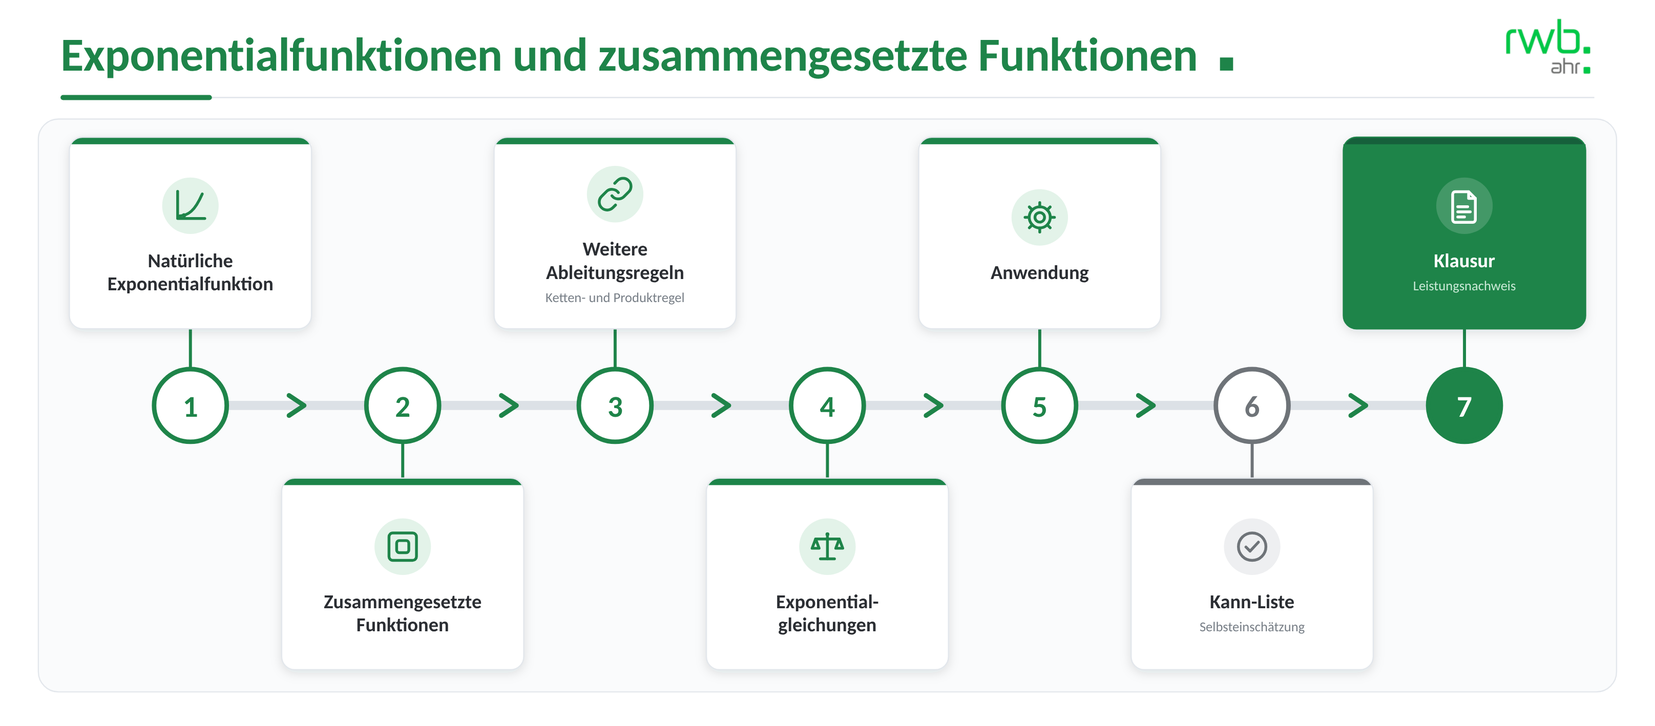
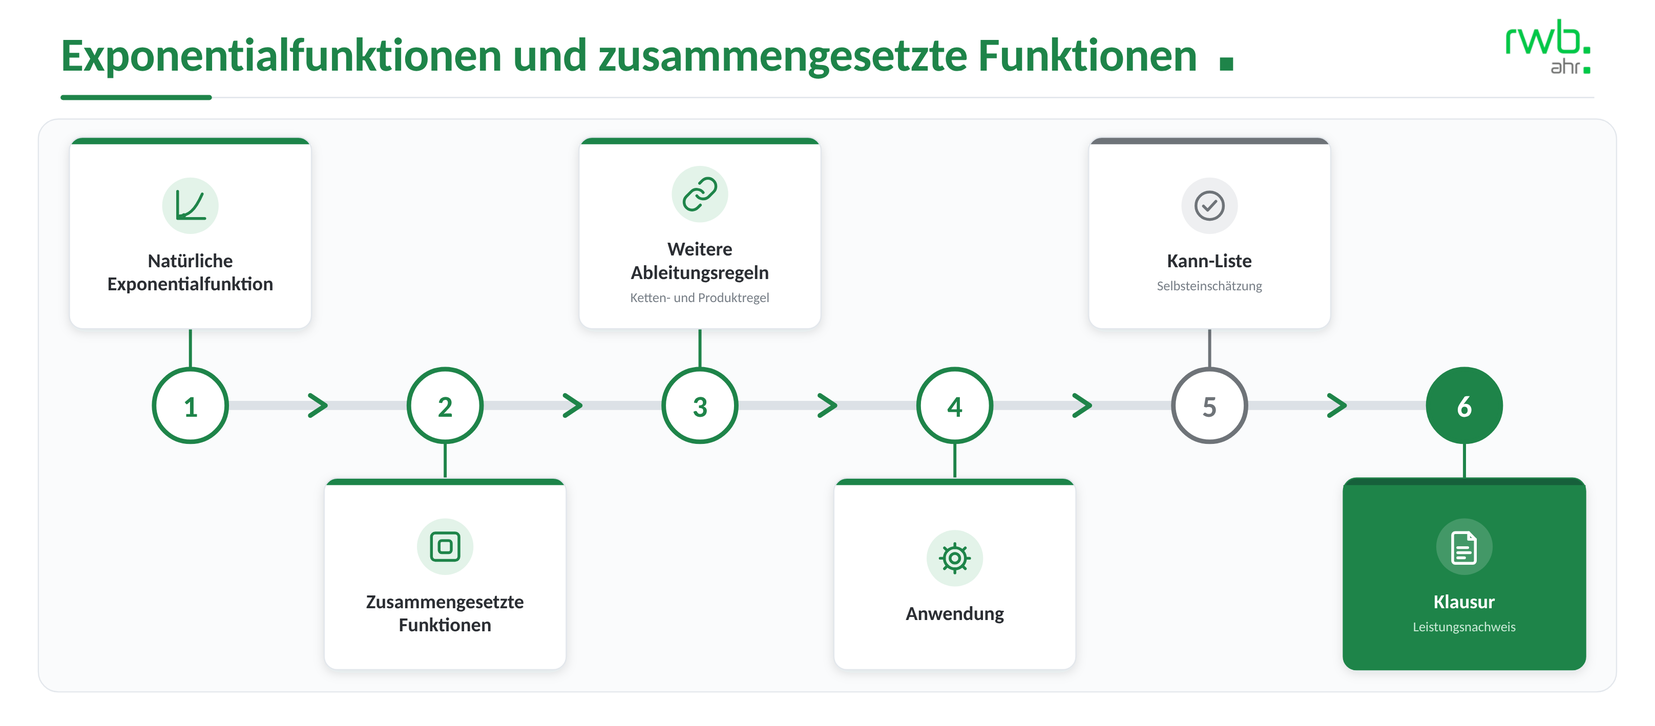
Lernlandkarten Exponentialfunktionen: Station Exponentialgleichungen entfernt
Claude-Session: https://claude.ai/code/session_01N5tt2ioRq957g9BtRY8iP4

diff --git a/Exponentialfunktionen und zusammengesetzte Funktionen/Lernlandkarte_Exponentialfunktionen_und_zusammengesetzte_Funktionen_HAW.html b/Exponentialfunktionen und zusammengesetzte Funktionen/Lernlandkarte_Exponentialfunktionen_und_zusammengesetzte_Funktionen_HAW.html
@@ -33,7 +33,7 @@ svg{display:block; width:100%; height:auto;}
 
      Variante B (Moodle-Textseite mit diesem HTML):
        Jede Station liegt als eigene SVG-Gruppe vor:
-       <g id="station-1"> … <g id="station-7">
+       <g id="station-1"> … <g id="station-6">
        Zum Verlinken die jeweilige Gruppe umschliessen, z. B.
        <a href="URL" target="_top"><g id="station-1"> … </g></a>
      ====================================================================== -->
@@ -49,33 +49,29 @@ svg{display:block; width:100%; height:auto;}
 <rect x="60" y="96" width="1520" height="1.4" fill="#E3E7EC"/>
 <rect x="60" y="94.2" width="150" height="5" rx="2.5" fill="#1E8449"/>
 <rect x="188.7" y="397.5" width="1262.6" height="9" rx="4.5" fill="#DCE1E6"/>
-<path d="M286.4 392 L301.4 402 L286.4 412" fill="none" stroke="#1E8449" stroke-width="4.6" stroke-linecap="round" stroke-linejoin="round"/>
-<path d="M496.8 392 L511.8 402 L496.8 412" fill="none" stroke="#1E8449" stroke-width="4.6" stroke-linecap="round" stroke-linejoin="round"/>
-<path d="M707.3 392 L722.3 402 L707.3 412" fill="none" stroke="#1E8449" stroke-width="4.6" stroke-linecap="round" stroke-linejoin="round"/>
-<path d="M917.7 392 L932.7 402 L917.7 412" fill="none" stroke="#1E8449" stroke-width="4.6" stroke-linecap="round" stroke-linejoin="round"/>
-<path d="M1128.1 392 L1143.1 402 L1128.1 412" fill="none" stroke="#1E8449" stroke-width="4.6" stroke-linecap="round" stroke-linejoin="round"/>
-<path d="M1338.6 392 L1353.6 402 L1338.6 412" fill="none" stroke="#1E8449" stroke-width="4.6" stroke-linecap="round" stroke-linejoin="round"/>
+<path d="M307.5 392 L322.5 402 L307.5 412" fill="none" stroke="#1E8449" stroke-width="4.6" stroke-linecap="round" stroke-linejoin="round"/>
+<path d="M560.0 392 L575.0 402 L560.0 412" fill="none" stroke="#1E8449" stroke-width="4.6" stroke-linecap="round" stroke-linejoin="round"/>
+<path d="M812.5 392 L827.5 402 L812.5 412" fill="none" stroke="#1E8449" stroke-width="4.6" stroke-linecap="round" stroke-linejoin="round"/>
+<path d="M1065.0 392 L1080.0 402 L1065.0 412" fill="none" stroke="#1E8449" stroke-width="4.6" stroke-linecap="round" stroke-linejoin="round"/>
+<path d="M1317.5 392 L1332.5 402 L1317.5 412" fill="none" stroke="#1E8449" stroke-width="4.6" stroke-linecap="round" stroke-linejoin="round"/>
 <g id="station-1"><rect x="187.2" y="326" width="3" height="40" fill="#1E8449"/><g filter="url(#soft)"><rect x="68.7" y="136" width="240" height="190" rx="13" fill="#1E8449"/></g><path d="M68.7 143 h240 v170 a13 13 0 0 1 -13 13 h-214 a13 13 0 0 1 -13 -13 z" fill="#FFFFFF"/><rect x="68.7" y="136" width="240" height="190" rx="13" fill="none" stroke="#E3E7EC" stroke-width="1.3"/><circle cx="188.7" cy="204.0" r="28" fill="#E3F3E9"/><g transform="translate(169.7,185.0) scale(1.5833)" fill="none" stroke="#1E8449" stroke-width="1.75" stroke-linecap="round" stroke-linejoin="round"><path d="M4 3V20H21"/><path d="M5.2 18.4C10.5 18.1 14.6 15.6 19.4 4.6"/><circle cx="8" cy="18" r="1.3" fill="#1E8449" stroke="none"/></g><text x="188.7" y="265.0" text-anchor="middle" font-family="Carlito, Calibri, 'Segoe UI', 'Helvetica Neue', Arial, sans-serif" font-size="19.5" font-weight="700" fill="#2B2E33">Natürliche</text><text x="188.7" y="288.0" text-anchor="middle" font-family="Carlito, Calibri, 'Segoe UI', 'Helvetica Neue', Arial, sans-serif" font-size="19.5" font-weight="700" fill="#2B2E33">Exponentialfunktion</text></g>
-<g id="station-2"><rect x="397.6" y="438" width="3" height="36" fill="#1E8449"/><g filter="url(#soft)"><rect x="279.1" y="474" width="240" height="190" rx="13" fill="#1E8449"/></g><path d="M279.1 481 h240 v170 a13 13 0 0 1 -13 13 h-214 a13 13 0 0 1 -13 -13 z" fill="#FFFFFF"/><rect x="279.1" y="474" width="240" height="190" rx="13" fill="none" stroke="#E3E7EC" stroke-width="1.3"/><circle cx="399.1" cy="542.0" r="28" fill="#E3F3E9"/><g transform="translate(380.1,523.0) scale(1.5833)" fill="none" stroke="#1E8449" stroke-width="1.75" stroke-linecap="round" stroke-linejoin="round"><rect x="3.4" y="3.4" width="17.2" height="17.2" rx="2.4"/><rect x="8.2" y="8.2" width="7.6" height="7.6" rx="1.6"/></g><text x="399.1" y="603.0" text-anchor="middle" font-family="Carlito, Calibri, 'Segoe UI', 'Helvetica Neue', Arial, sans-serif" font-size="19.5" font-weight="700" fill="#2B2E33">Zusammengesetzte</text><text x="399.1" y="626.0" text-anchor="middle" font-family="Carlito, Calibri, 'Segoe UI', 'Helvetica Neue', Arial, sans-serif" font-size="19.5" font-weight="700" fill="#2B2E33">Funktionen</text></g>
-<g id="station-3"><rect x="608.1" y="326" width="3" height="40" fill="#1E8449"/><g filter="url(#soft)"><rect x="489.6" y="136" width="240" height="190" rx="13" fill="#1E8449"/></g><path d="M489.6 143 h240 v170 a13 13 0 0 1 -13 13 h-214 a13 13 0 0 1 -13 -13 z" fill="#FFFFFF"/><rect x="489.6" y="136" width="240" height="190" rx="13" fill="none" stroke="#E3E7EC" stroke-width="1.3"/><circle cx="609.6" cy="192.5" r="28" fill="#E3F3E9"/><g transform="translate(590.6,173.5) scale(1.5833)" fill="none" stroke="#1E8449" stroke-width="1.75" stroke-linecap="round" stroke-linejoin="round"><path d="M10 13a5 5 0 0 0 7.54.54l3-3a5 5 0 0 0-7.07-7.07l-1.72 1.71"/><path d="M14 11a5 5 0 0 0-7.54-.54l-3 3a5 5 0 0 0 7.07 7.07l1.71-1.71"/></g><text x="609.6" y="253.5" text-anchor="middle" font-family="Carlito, Calibri, 'Segoe UI', 'Helvetica Neue', Arial, sans-serif" font-size="19.5" font-weight="700" fill="#2B2E33">Weitere</text><text x="609.6" y="276.5" text-anchor="middle" font-family="Carlito, Calibri, 'Segoe UI', 'Helvetica Neue', Arial, sans-serif" font-size="19.5" font-weight="700" fill="#2B2E33">Ableitungsregeln</text><text x="609.6" y="299.5" text-anchor="middle" font-family="Carlito, Calibri, 'Segoe UI', 'Helvetica Neue', Arial, sans-serif" font-size="13.5" fill="#787F87">Ketten- und Produktregel</text></g>
-<g id="station-4"><rect x="818.5" y="438" width="3" height="36" fill="#1E8449"/><g filter="url(#soft)"><rect x="700.0" y="474" width="240" height="190" rx="13" fill="#1E8449"/></g><path d="M700.0 481 h240 v170 a13 13 0 0 1 -13 13 h-214 a13 13 0 0 1 -13 -13 z" fill="#FFFFFF"/><rect x="700.0" y="474" width="240" height="190" rx="13" fill="none" stroke="#E3E7EC" stroke-width="1.3"/><circle cx="820.0" cy="542.0" r="28" fill="#E3F3E9"/><g transform="translate(801.0,523.0) scale(1.5833)" fill="none" stroke="#1E8449" stroke-width="1.75" stroke-linecap="round" stroke-linejoin="round"><path d="M12 4.2V19.6"/><path d="M7.6 19.6H16.4"/><path d="M4.6 7.2H19.4"/><circle cx="12" cy="4.2" r="1.2" fill="#1E8449" stroke="none"/><path d="M4.6 7.2L2.4 13H6.8Z"/><path d="M19.4 7.2L17.2 13H21.6Z"/></g><text x="820.0" y="603.0" text-anchor="middle" font-family="Carlito, Calibri, 'Segoe UI', 'Helvetica Neue', Arial, sans-serif" font-size="19.5" font-weight="700" fill="#2B2E33">Exponential-</text><text x="820.0" y="626.0" text-anchor="middle" font-family="Carlito, Calibri, 'Segoe UI', 'Helvetica Neue', Arial, sans-serif" font-size="19.5" font-weight="700" fill="#2B2E33">gleichungen</text></g>
-<g id="station-5"><rect x="1028.9" y="326" width="3" height="40" fill="#1E8449"/><g filter="url(#soft)"><rect x="910.4" y="136" width="240" height="190" rx="13" fill="#1E8449"/></g><path d="M910.4 143 h240 v170 a13 13 0 0 1 -13 13 h-214 a13 13 0 0 1 -13 -13 z" fill="#FFFFFF"/><rect x="910.4" y="136" width="240" height="190" rx="13" fill="none" stroke="#E3E7EC" stroke-width="1.3"/><circle cx="1030.4" cy="183.5" r="28" fill="#E3F3E9"/><g transform="translate(1011.4,164.5) scale(1.5833)" fill="none" stroke="#1E8449" stroke-width="1.75" stroke-linecap="round" stroke-linejoin="round"><path d="M4 3V20H21"/><path d="M5.8 18.6C9 18.6 10.2 7.2 13 7.2S17 16.4 20.6 17.4"/></g><text x="1030.4" y="244.5" text-anchor="middle" font-family="Carlito, Calibri, 'Segoe UI', 'Helvetica Neue', Arial, sans-serif" font-size="19.5" font-weight="700" fill="#2B2E33">Ökonomische</text><text x="1030.4" y="267.5" text-anchor="middle" font-family="Carlito, Calibri, 'Segoe UI', 'Helvetica Neue', Arial, sans-serif" font-size="19.5" font-weight="700" fill="#2B2E33">Anwendung VII</text><text x="1030.4" y="290.5" text-anchor="middle" font-family="Carlito, Calibri, 'Segoe UI', 'Helvetica Neue', Arial, sans-serif" font-size="13.5" fill="#787F87">Produktlebenszyklus</text><text x="1030.4" y="308.5" text-anchor="middle" font-family="Carlito, Calibri, 'Segoe UI', 'Helvetica Neue', Arial, sans-serif" font-size="13.5" fill="#787F87">(Absatz- und Umsatzfunktion)</text></g>
-<g id="station-6"><rect x="1239.4" y="438" width="3" height="36" fill="#6E7378"/><g filter="url(#soft)"><rect x="1120.9" y="474" width="240" height="190" rx="13" fill="#6E7378"/></g><path d="M1120.9 481 h240 v170 a13 13 0 0 1 -13 13 h-214 a13 13 0 0 1 -13 -13 z" fill="#FFFFFF"/><rect x="1120.9" y="474" width="240" height="190" rx="13" fill="none" stroke="#E3E7EC" stroke-width="1.3"/><circle cx="1240.9" cy="542.0" r="28" fill="#EEEFF1"/><g transform="translate(1221.9,523.0) scale(1.5833)" fill="none" stroke="#6E7378" stroke-width="1.75" stroke-linecap="round" stroke-linejoin="round"><circle cx="12" cy="12" r="8.6"/><path d="M8.1 12.2l2.6 2.6 5.2-5.6"/></g><text x="1240.9" y="603.0" text-anchor="middle" font-family="Carlito, Calibri, 'Segoe UI', 'Helvetica Neue', Arial, sans-serif" font-size="19.5" font-weight="700" fill="#2B2E33">Kann-Liste</text><text x="1240.9" y="626.0" text-anchor="middle" font-family="Carlito, Calibri, 'Segoe UI', 'Helvetica Neue', Arial, sans-serif" font-size="13.5" fill="#787F87">Selbsteinschätzung</text></g>
-<g id="station-7"><rect x="1449.8" y="326" width="3" height="40" fill="#1E8449"/><g filter="url(#soft)"><rect x="1331.3" y="136" width="240" height="190" rx="13" fill="#14603A"/></g><path d="M1331.3 143 h240 v170 a13 13 0 0 1 -13 13 h-214 a13 13 0 0 1 -13 -13 z" fill="#1E8449"/><rect x="1331.3" y="136" width="240" height="190" rx="13" fill="none" stroke="#1E8449" stroke-width="1.3"/><circle cx="1451.3" cy="204.0" r="28" fill="#FFFFFF" opacity="0.17"/><g transform="translate(1432.3,185.0) scale(1.5833)" fill="none" stroke="#FFFFFF" stroke-width="1.75" stroke-linecap="round" stroke-linejoin="round"><path d="M6.2 3.2h8.4l4.2 4.2v13.4a1.6 1.6 0 0 1-1.6 1.6H6.2a1.6 1.6 0 0 1-1.6-1.6V4.8a1.6 1.6 0 0 1 1.6-1.6z"/><path d="M14.6 3.2v4.2h4.2"/><path d="M7.8 12.6H14"/><path d="M7.8 15.8H15.6"/><path d="M7.8 19H12"/></g><text x="1451.3" y="265.0" text-anchor="middle" font-family="Carlito, Calibri, 'Segoe UI', 'Helvetica Neue', Arial, sans-serif" font-size="19.5" font-weight="700" fill="#FFFFFF">Klausur</text><text x="1451.3" y="288.0" text-anchor="middle" font-family="Carlito, Calibri, 'Segoe UI', 'Helvetica Neue', Arial, sans-serif" font-size="13.5" fill="#C9E9D6">Leistungsnachweis</text></g>
+<g id="station-2"><rect x="439.7" y="438" width="3" height="36" fill="#1E8449"/><g filter="url(#soft)"><rect x="321.2" y="474" width="240" height="190" rx="13" fill="#1E8449"/></g><path d="M321.2 481 h240 v170 a13 13 0 0 1 -13 13 h-214 a13 13 0 0 1 -13 -13 z" fill="#FFFFFF"/><rect x="321.2" y="474" width="240" height="190" rx="13" fill="none" stroke="#E3E7EC" stroke-width="1.3"/><circle cx="441.2" cy="542.0" r="28" fill="#E3F3E9"/><g transform="translate(422.2,523.0) scale(1.5833)" fill="none" stroke="#1E8449" stroke-width="1.75" stroke-linecap="round" stroke-linejoin="round"><rect x="3.4" y="3.4" width="17.2" height="17.2" rx="2.4"/><rect x="8.2" y="8.2" width="7.6" height="7.6" rx="1.6"/></g><text x="441.2" y="603.0" text-anchor="middle" font-family="Carlito, Calibri, 'Segoe UI', 'Helvetica Neue', Arial, sans-serif" font-size="19.5" font-weight="700" fill="#2B2E33">Zusammengesetzte</text><text x="441.2" y="626.0" text-anchor="middle" font-family="Carlito, Calibri, 'Segoe UI', 'Helvetica Neue', Arial, sans-serif" font-size="19.5" font-weight="700" fill="#2B2E33">Funktionen</text></g>
+<g id="station-3"><rect x="692.2" y="326" width="3" height="40" fill="#1E8449"/><g filter="url(#soft)"><rect x="573.7" y="136" width="240" height="190" rx="13" fill="#1E8449"/></g><path d="M573.7 143 h240 v170 a13 13 0 0 1 -13 13 h-214 a13 13 0 0 1 -13 -13 z" fill="#FFFFFF"/><rect x="573.7" y="136" width="240" height="190" rx="13" fill="none" stroke="#E3E7EC" stroke-width="1.3"/><circle cx="693.7" cy="192.5" r="28" fill="#E3F3E9"/><g transform="translate(674.7,173.5) scale(1.5833)" fill="none" stroke="#1E8449" stroke-width="1.75" stroke-linecap="round" stroke-linejoin="round"><path d="M10 13a5 5 0 0 0 7.54.54l3-3a5 5 0 0 0-7.07-7.07l-1.72 1.71"/><path d="M14 11a5 5 0 0 0-7.54-.54l-3 3a5 5 0 0 0 7.07 7.07l1.71-1.71"/></g><text x="693.7" y="253.5" text-anchor="middle" font-family="Carlito, Calibri, 'Segoe UI', 'Helvetica Neue', Arial, sans-serif" font-size="19.5" font-weight="700" fill="#2B2E33">Weitere</text><text x="693.7" y="276.5" text-anchor="middle" font-family="Carlito, Calibri, 'Segoe UI', 'Helvetica Neue', Arial, sans-serif" font-size="19.5" font-weight="700" fill="#2B2E33">Ableitungsregeln</text><text x="693.7" y="299.5" text-anchor="middle" font-family="Carlito, Calibri, 'Segoe UI', 'Helvetica Neue', Arial, sans-serif" font-size="13.5" fill="#787F87">Ketten- und Produktregel</text></g>
+<g id="station-4"><rect x="944.8" y="438" width="3" height="36" fill="#1E8449"/><g filter="url(#soft)"><rect x="826.3" y="474" width="240" height="190" rx="13" fill="#1E8449"/></g><path d="M826.3 481 h240 v170 a13 13 0 0 1 -13 13 h-214 a13 13 0 0 1 -13 -13 z" fill="#FFFFFF"/><rect x="826.3" y="474" width="240" height="190" rx="13" fill="none" stroke="#E3E7EC" stroke-width="1.3"/><circle cx="946.3" cy="521.5" r="28" fill="#E3F3E9"/><g transform="translate(927.3,502.5) scale(1.5833)" fill="none" stroke="#1E8449" stroke-width="1.75" stroke-linecap="round" stroke-linejoin="round"><path d="M4 3V20H21"/><path d="M5.8 18.6C9 18.6 10.2 7.2 13 7.2S17 16.4 20.6 17.4"/></g><text x="946.3" y="582.5" text-anchor="middle" font-family="Carlito, Calibri, 'Segoe UI', 'Helvetica Neue', Arial, sans-serif" font-size="19.5" font-weight="700" fill="#2B2E33">Ökonomische</text><text x="946.3" y="605.5" text-anchor="middle" font-family="Carlito, Calibri, 'Segoe UI', 'Helvetica Neue', Arial, sans-serif" font-size="19.5" font-weight="700" fill="#2B2E33">Anwendung VII</text><text x="946.3" y="628.5" text-anchor="middle" font-family="Carlito, Calibri, 'Segoe UI', 'Helvetica Neue', Arial, sans-serif" font-size="13.5" fill="#787F87">Produktlebenszyklus</text><text x="946.3" y="646.5" text-anchor="middle" font-family="Carlito, Calibri, 'Segoe UI', 'Helvetica Neue', Arial, sans-serif" font-size="13.5" fill="#787F87">(Absatz- und Umsatzfunktion)</text></g>
+<g id="station-5"><rect x="1197.3" y="326" width="3" height="40" fill="#6E7378"/><g filter="url(#soft)"><rect x="1078.8" y="136" width="240" height="190" rx="13" fill="#6E7378"/></g><path d="M1078.8 143 h240 v170 a13 13 0 0 1 -13 13 h-214 a13 13 0 0 1 -13 -13 z" fill="#FFFFFF"/><rect x="1078.8" y="136" width="240" height="190" rx="13" fill="none" stroke="#E3E7EC" stroke-width="1.3"/><circle cx="1198.8" cy="204.0" r="28" fill="#EEEFF1"/><g transform="translate(1179.8,185.0) scale(1.5833)" fill="none" stroke="#6E7378" stroke-width="1.75" stroke-linecap="round" stroke-linejoin="round"><circle cx="12" cy="12" r="8.6"/><path d="M8.1 12.2l2.6 2.6 5.2-5.6"/></g><text x="1198.8" y="265.0" text-anchor="middle" font-family="Carlito, Calibri, 'Segoe UI', 'Helvetica Neue', Arial, sans-serif" font-size="19.5" font-weight="700" fill="#2B2E33">Kann-Liste</text><text x="1198.8" y="288.0" text-anchor="middle" font-family="Carlito, Calibri, 'Segoe UI', 'Helvetica Neue', Arial, sans-serif" font-size="13.5" fill="#787F87">Selbsteinschätzung</text></g>
+<g id="station-6"><rect x="1449.8" y="438" width="3" height="36" fill="#1E8449"/><g filter="url(#soft)"><rect x="1331.3" y="474" width="240" height="190" rx="13" fill="#14603A"/></g><path d="M1331.3 481 h240 v170 a13 13 0 0 1 -13 13 h-214 a13 13 0 0 1 -13 -13 z" fill="#1E8449"/><rect x="1331.3" y="474" width="240" height="190" rx="13" fill="none" stroke="#1E8449" stroke-width="1.3"/><circle cx="1451.3" cy="542.0" r="28" fill="#FFFFFF" opacity="0.17"/><g transform="translate(1432.3,523.0) scale(1.5833)" fill="none" stroke="#FFFFFF" stroke-width="1.75" stroke-linecap="round" stroke-linejoin="round"><path d="M6.2 3.2h8.4l4.2 4.2v13.4a1.6 1.6 0 0 1-1.6 1.6H6.2a1.6 1.6 0 0 1-1.6-1.6V4.8a1.6 1.6 0 0 1 1.6-1.6z"/><path d="M14.6 3.2v4.2h4.2"/><path d="M7.8 12.6H14"/><path d="M7.8 15.8H15.6"/><path d="M7.8 19H12"/></g><text x="1451.3" y="603.0" text-anchor="middle" font-family="Carlito, Calibri, 'Segoe UI', 'Helvetica Neue', Arial, sans-serif" font-size="19.5" font-weight="700" fill="#FFFFFF">Klausur</text><text x="1451.3" y="626.0" text-anchor="middle" font-family="Carlito, Calibri, 'Segoe UI', 'Helvetica Neue', Arial, sans-serif" font-size="13.5" fill="#C9E9D6">Leistungsnachweis</text></g>
 <circle cx="188.7" cy="402" r="36" fill="#FFFFFF" stroke="#1E8449" stroke-width="4.5"/>
 <text x="188.7" y="413" text-anchor="middle" font-family="Carlito, Calibri, 'Segoe UI', 'Helvetica Neue', Arial, sans-serif" font-size="30" font-weight="700" fill="#1E8449">1</text>
-<circle cx="399.1" cy="402" r="36" fill="#FFFFFF" stroke="#1E8449" stroke-width="4.5"/>
-<text x="399.1" y="413" text-anchor="middle" font-family="Carlito, Calibri, 'Segoe UI', 'Helvetica Neue', Arial, sans-serif" font-size="30" font-weight="700" fill="#1E8449">2</text>
-<circle cx="609.6" cy="402" r="36" fill="#FFFFFF" stroke="#1E8449" stroke-width="4.5"/>
-<text x="609.6" y="413" text-anchor="middle" font-family="Carlito, Calibri, 'Segoe UI', 'Helvetica Neue', Arial, sans-serif" font-size="30" font-weight="700" fill="#1E8449">3</text>
-<circle cx="820.0" cy="402" r="36" fill="#FFFFFF" stroke="#1E8449" stroke-width="4.5"/>
-<text x="820.0" y="413" text-anchor="middle" font-family="Carlito, Calibri, 'Segoe UI', 'Helvetica Neue', Arial, sans-serif" font-size="30" font-weight="700" fill="#1E8449">4</text>
-<circle cx="1030.4" cy="402" r="36" fill="#FFFFFF" stroke="#1E8449" stroke-width="4.5"/>
-<text x="1030.4" y="413" text-anchor="middle" font-family="Carlito, Calibri, 'Segoe UI', 'Helvetica Neue', Arial, sans-serif" font-size="30" font-weight="700" fill="#1E8449">5</text>
-<circle cx="1240.9" cy="402" r="36" fill="#FFFFFF" stroke="#6E7378" stroke-width="4.5"/>
-<text x="1240.9" y="413" text-anchor="middle" font-family="Carlito, Calibri, 'Segoe UI', 'Helvetica Neue', Arial, sans-serif" font-size="30" font-weight="700" fill="#6E7378">6</text>
+<circle cx="441.2" cy="402" r="36" fill="#FFFFFF" stroke="#1E8449" stroke-width="4.5"/>
+<text x="441.2" y="413" text-anchor="middle" font-family="Carlito, Calibri, 'Segoe UI', 'Helvetica Neue', Arial, sans-serif" font-size="30" font-weight="700" fill="#1E8449">2</text>
+<circle cx="693.7" cy="402" r="36" fill="#FFFFFF" stroke="#1E8449" stroke-width="4.5"/>
+<text x="693.7" y="413" text-anchor="middle" font-family="Carlito, Calibri, 'Segoe UI', 'Helvetica Neue', Arial, sans-serif" font-size="30" font-weight="700" fill="#1E8449">3</text>
+<circle cx="946.3" cy="402" r="36" fill="#FFFFFF" stroke="#1E8449" stroke-width="4.5"/>
+<text x="946.3" y="413" text-anchor="middle" font-family="Carlito, Calibri, 'Segoe UI', 'Helvetica Neue', Arial, sans-serif" font-size="30" font-weight="700" fill="#1E8449">4</text>
+<circle cx="1198.8" cy="402" r="36" fill="#FFFFFF" stroke="#6E7378" stroke-width="4.5"/>
+<text x="1198.8" y="413" text-anchor="middle" font-family="Carlito, Calibri, 'Segoe UI', 'Helvetica Neue', Arial, sans-serif" font-size="30" font-weight="700" fill="#6E7378">5</text>
 <circle cx="1451.3" cy="402" r="36" fill="#1E8449" stroke="#1E8449" stroke-width="4.5"/>
-<text x="1451.3" y="413" text-anchor="middle" font-family="Carlito, Calibri, 'Segoe UI', 'Helvetica Neue', Arial, sans-serif" font-size="30" font-weight="700" fill="#FFFFFF">7</text>
+<text x="1451.3" y="413" text-anchor="middle" font-family="Carlito, Calibri, 'Segoe UI', 'Helvetica Neue', Arial, sans-serif" font-size="30" font-weight="700" fill="#FFFFFF">6</text>
 </svg>
 </div></div>
 </body></html>

diff --git a/Exponentialfunktionen und zusammengesetzte Funktionen/Lernlandkarte_Exponentialfunktionen_und_zusammengesetzte_Funktionen_HAN.html b/Exponentialfunktionen und zusammengesetzte Funktionen/Lernlandkarte_Exponentialfunktionen_und_zusammengesetzte_Funktionen_HAN.html
@@ -33,7 +33,7 @@ svg{display:block; width:100%; height:auto;}
 
      Variante B (Moodle-Textseite mit diesem HTML):
        Jede Station liegt als eigene SVG-Gruppe vor:
-       <g id="station-1"> … <g id="station-7">
+       <g id="station-1"> … <g id="station-6">
        Zum Verlinken die jeweilige Gruppe umschliessen, z. B.
        <a href="URL" target="_top"><g id="station-1"> … </g></a>
      ====================================================================== -->
@@ -49,33 +49,29 @@ svg{display:block; width:100%; height:auto;}
 <rect x="60" y="96" width="1520" height="1.4" fill="#E3E7EC"/>
 <rect x="60" y="94.2" width="150" height="5" rx="2.5" fill="#1E8449"/>
 <rect x="188.7" y="397.5" width="1262.6" height="9" rx="4.5" fill="#DCE1E6"/>
-<path d="M286.4 392 L301.4 402 L286.4 412" fill="none" stroke="#1E8449" stroke-width="4.6" stroke-linecap="round" stroke-linejoin="round"/>
-<path d="M496.8 392 L511.8 402 L496.8 412" fill="none" stroke="#1E8449" stroke-width="4.6" stroke-linecap="round" stroke-linejoin="round"/>
-<path d="M707.3 392 L722.3 402 L707.3 412" fill="none" stroke="#1E8449" stroke-width="4.6" stroke-linecap="round" stroke-linejoin="round"/>
-<path d="M917.7 392 L932.7 402 L917.7 412" fill="none" stroke="#1E8449" stroke-width="4.6" stroke-linecap="round" stroke-linejoin="round"/>
-<path d="M1128.1 392 L1143.1 402 L1128.1 412" fill="none" stroke="#1E8449" stroke-width="4.6" stroke-linecap="round" stroke-linejoin="round"/>
-<path d="M1338.6 392 L1353.6 402 L1338.6 412" fill="none" stroke="#1E8449" stroke-width="4.6" stroke-linecap="round" stroke-linejoin="round"/>
+<path d="M307.5 392 L322.5 402 L307.5 412" fill="none" stroke="#1E8449" stroke-width="4.6" stroke-linecap="round" stroke-linejoin="round"/>
+<path d="M560.0 392 L575.0 402 L560.0 412" fill="none" stroke="#1E8449" stroke-width="4.6" stroke-linecap="round" stroke-linejoin="round"/>
+<path d="M812.5 392 L827.5 402 L812.5 412" fill="none" stroke="#1E8449" stroke-width="4.6" stroke-linecap="round" stroke-linejoin="round"/>
+<path d="M1065.0 392 L1080.0 402 L1065.0 412" fill="none" stroke="#1E8449" stroke-width="4.6" stroke-linecap="round" stroke-linejoin="round"/>
+<path d="M1317.5 392 L1332.5 402 L1317.5 412" fill="none" stroke="#1E8449" stroke-width="4.6" stroke-linecap="round" stroke-linejoin="round"/>
 <g id="station-1"><rect x="187.2" y="326" width="3" height="40" fill="#1E8449"/><g filter="url(#soft)"><rect x="68.7" y="136" width="240" height="190" rx="13" fill="#1E8449"/></g><path d="M68.7 143 h240 v170 a13 13 0 0 1 -13 13 h-214 a13 13 0 0 1 -13 -13 z" fill="#FFFFFF"/><rect x="68.7" y="136" width="240" height="190" rx="13" fill="none" stroke="#E3E7EC" stroke-width="1.3"/><circle cx="188.7" cy="204.0" r="28" fill="#E3F3E9"/><g transform="translate(169.7,185.0) scale(1.5833)" fill="none" stroke="#1E8449" stroke-width="1.75" stroke-linecap="round" stroke-linejoin="round"><path d="M4 3V20H21"/><path d="M5.2 18.4C10.5 18.1 14.6 15.6 19.4 4.6"/><circle cx="8" cy="18" r="1.3" fill="#1E8449" stroke="none"/></g><text x="188.7" y="265.0" text-anchor="middle" font-family="Carlito, Calibri, 'Segoe UI', 'Helvetica Neue', Arial, sans-serif" font-size="19.5" font-weight="700" fill="#2B2E33">Natürliche</text><text x="188.7" y="288.0" text-anchor="middle" font-family="Carlito, Calibri, 'Segoe UI', 'Helvetica Neue', Arial, sans-serif" font-size="19.5" font-weight="700" fill="#2B2E33">Exponentialfunktion</text></g>
-<g id="station-2"><rect x="397.6" y="438" width="3" height="36" fill="#1E8449"/><g filter="url(#soft)"><rect x="279.1" y="474" width="240" height="190" rx="13" fill="#1E8449"/></g><path d="M279.1 481 h240 v170 a13 13 0 0 1 -13 13 h-214 a13 13 0 0 1 -13 -13 z" fill="#FFFFFF"/><rect x="279.1" y="474" width="240" height="190" rx="13" fill="none" stroke="#E3E7EC" stroke-width="1.3"/><circle cx="399.1" cy="542.0" r="28" fill="#E3F3E9"/><g transform="translate(380.1,523.0) scale(1.5833)" fill="none" stroke="#1E8449" stroke-width="1.75" stroke-linecap="round" stroke-linejoin="round"><rect x="3.4" y="3.4" width="17.2" height="17.2" rx="2.4"/><rect x="8.2" y="8.2" width="7.6" height="7.6" rx="1.6"/></g><text x="399.1" y="603.0" text-anchor="middle" font-family="Carlito, Calibri, 'Segoe UI', 'Helvetica Neue', Arial, sans-serif" font-size="19.5" font-weight="700" fill="#2B2E33">Zusammengesetzte</text><text x="399.1" y="626.0" text-anchor="middle" font-family="Carlito, Calibri, 'Segoe UI', 'Helvetica Neue', Arial, sans-serif" font-size="19.5" font-weight="700" fill="#2B2E33">Funktionen</text></g>
-<g id="station-3"><rect x="608.1" y="326" width="3" height="40" fill="#1E8449"/><g filter="url(#soft)"><rect x="489.6" y="136" width="240" height="190" rx="13" fill="#1E8449"/></g><path d="M489.6 143 h240 v170 a13 13 0 0 1 -13 13 h-214 a13 13 0 0 1 -13 -13 z" fill="#FFFFFF"/><rect x="489.6" y="136" width="240" height="190" rx="13" fill="none" stroke="#E3E7EC" stroke-width="1.3"/><circle cx="609.6" cy="192.5" r="28" fill="#E3F3E9"/><g transform="translate(590.6,173.5) scale(1.5833)" fill="none" stroke="#1E8449" stroke-width="1.75" stroke-linecap="round" stroke-linejoin="round"><path d="M10 13a5 5 0 0 0 7.54.54l3-3a5 5 0 0 0-7.07-7.07l-1.72 1.71"/><path d="M14 11a5 5 0 0 0-7.54-.54l-3 3a5 5 0 0 0 7.07 7.07l1.71-1.71"/></g><text x="609.6" y="253.5" text-anchor="middle" font-family="Carlito, Calibri, 'Segoe UI', 'Helvetica Neue', Arial, sans-serif" font-size="19.5" font-weight="700" fill="#2B2E33">Weitere</text><text x="609.6" y="276.5" text-anchor="middle" font-family="Carlito, Calibri, 'Segoe UI', 'Helvetica Neue', Arial, sans-serif" font-size="19.5" font-weight="700" fill="#2B2E33">Ableitungsregeln</text><text x="609.6" y="299.5" text-anchor="middle" font-family="Carlito, Calibri, 'Segoe UI', 'Helvetica Neue', Arial, sans-serif" font-size="13.5" fill="#787F87">Ketten- und Produktregel</text></g>
-<g id="station-4"><rect x="818.5" y="438" width="3" height="36" fill="#1E8449"/><g filter="url(#soft)"><rect x="700.0" y="474" width="240" height="190" rx="13" fill="#1E8449"/></g><path d="M700.0 481 h240 v170 a13 13 0 0 1 -13 13 h-214 a13 13 0 0 1 -13 -13 z" fill="#FFFFFF"/><rect x="700.0" y="474" width="240" height="190" rx="13" fill="none" stroke="#E3E7EC" stroke-width="1.3"/><circle cx="820.0" cy="542.0" r="28" fill="#E3F3E9"/><g transform="translate(801.0,523.0) scale(1.5833)" fill="none" stroke="#1E8449" stroke-width="1.75" stroke-linecap="round" stroke-linejoin="round"><path d="M12 4.2V19.6"/><path d="M7.6 19.6H16.4"/><path d="M4.6 7.2H19.4"/><circle cx="12" cy="4.2" r="1.2" fill="#1E8449" stroke="none"/><path d="M4.6 7.2L2.4 13H6.8Z"/><path d="M19.4 7.2L17.2 13H21.6Z"/></g><text x="820.0" y="603.0" text-anchor="middle" font-family="Carlito, Calibri, 'Segoe UI', 'Helvetica Neue', Arial, sans-serif" font-size="19.5" font-weight="700" fill="#2B2E33">Exponential-</text><text x="820.0" y="626.0" text-anchor="middle" font-family="Carlito, Calibri, 'Segoe UI', 'Helvetica Neue', Arial, sans-serif" font-size="19.5" font-weight="700" fill="#2B2E33">gleichungen</text></g>
-<g id="station-5"><rect x="1028.9" y="326" width="3" height="40" fill="#1E8449"/><g filter="url(#soft)"><rect x="910.4" y="136" width="240" height="190" rx="13" fill="#1E8449"/></g><path d="M910.4 143 h240 v170 a13 13 0 0 1 -13 13 h-214 a13 13 0 0 1 -13 -13 z" fill="#FFFFFF"/><rect x="910.4" y="136" width="240" height="190" rx="13" fill="none" stroke="#E3E7EC" stroke-width="1.3"/><circle cx="1030.4" cy="215.5" r="28" fill="#E3F3E9"/><g transform="translate(1011.4,196.5) scale(1.5833)" fill="none" stroke="#1E8449" stroke-width="1.75" stroke-linecap="round" stroke-linejoin="round"><circle cx="12" cy="12" r="3"/><circle cx="12" cy="12" r="6.6"/><path d="M18.60 12.00L21.20 12.00"/><path d="M16.67 16.67L18.51 18.51"/><path d="M12.00 18.60L12.00 21.20"/><path d="M7.33 16.67L5.49 18.51"/><path d="M5.40 12.00L2.80 12.00"/><path d="M7.33 7.33L5.49 5.49"/><path d="M12.00 5.40L12.00 2.80"/><path d="M16.67 7.33L18.51 5.49"/></g><text x="1030.4" y="276.5" text-anchor="middle" font-family="Carlito, Calibri, 'Segoe UI', 'Helvetica Neue', Arial, sans-serif" font-size="19.5" font-weight="700" fill="#2B2E33">Anwendung</text></g>
-<g id="station-6"><rect x="1239.4" y="438" width="3" height="36" fill="#6E7378"/><g filter="url(#soft)"><rect x="1120.9" y="474" width="240" height="190" rx="13" fill="#6E7378"/></g><path d="M1120.9 481 h240 v170 a13 13 0 0 1 -13 13 h-214 a13 13 0 0 1 -13 -13 z" fill="#FFFFFF"/><rect x="1120.9" y="474" width="240" height="190" rx="13" fill="none" stroke="#E3E7EC" stroke-width="1.3"/><circle cx="1240.9" cy="542.0" r="28" fill="#EEEFF1"/><g transform="translate(1221.9,523.0) scale(1.5833)" fill="none" stroke="#6E7378" stroke-width="1.75" stroke-linecap="round" stroke-linejoin="round"><circle cx="12" cy="12" r="8.6"/><path d="M8.1 12.2l2.6 2.6 5.2-5.6"/></g><text x="1240.9" y="603.0" text-anchor="middle" font-family="Carlito, Calibri, 'Segoe UI', 'Helvetica Neue', Arial, sans-serif" font-size="19.5" font-weight="700" fill="#2B2E33">Kann-Liste</text><text x="1240.9" y="626.0" text-anchor="middle" font-family="Carlito, Calibri, 'Segoe UI', 'Helvetica Neue', Arial, sans-serif" font-size="13.5" fill="#787F87">Selbsteinschätzung</text></g>
-<g id="station-7"><rect x="1449.8" y="326" width="3" height="40" fill="#1E8449"/><g filter="url(#soft)"><rect x="1331.3" y="136" width="240" height="190" rx="13" fill="#14603A"/></g><path d="M1331.3 143 h240 v170 a13 13 0 0 1 -13 13 h-214 a13 13 0 0 1 -13 -13 z" fill="#1E8449"/><rect x="1331.3" y="136" width="240" height="190" rx="13" fill="none" stroke="#1E8449" stroke-width="1.3"/><circle cx="1451.3" cy="204.0" r="28" fill="#FFFFFF" opacity="0.17"/><g transform="translate(1432.3,185.0) scale(1.5833)" fill="none" stroke="#FFFFFF" stroke-width="1.75" stroke-linecap="round" stroke-linejoin="round"><path d="M6.2 3.2h8.4l4.2 4.2v13.4a1.6 1.6 0 0 1-1.6 1.6H6.2a1.6 1.6 0 0 1-1.6-1.6V4.8a1.6 1.6 0 0 1 1.6-1.6z"/><path d="M14.6 3.2v4.2h4.2"/><path d="M7.8 12.6H14"/><path d="M7.8 15.8H15.6"/><path d="M7.8 19H12"/></g><text x="1451.3" y="265.0" text-anchor="middle" font-family="Carlito, Calibri, 'Segoe UI', 'Helvetica Neue', Arial, sans-serif" font-size="19.5" font-weight="700" fill="#FFFFFF">Klausur</text><text x="1451.3" y="288.0" text-anchor="middle" font-family="Carlito, Calibri, 'Segoe UI', 'Helvetica Neue', Arial, sans-serif" font-size="13.5" fill="#C9E9D6">Leistungsnachweis</text></g>
+<g id="station-2"><rect x="439.7" y="438" width="3" height="36" fill="#1E8449"/><g filter="url(#soft)"><rect x="321.2" y="474" width="240" height="190" rx="13" fill="#1E8449"/></g><path d="M321.2 481 h240 v170 a13 13 0 0 1 -13 13 h-214 a13 13 0 0 1 -13 -13 z" fill="#FFFFFF"/><rect x="321.2" y="474" width="240" height="190" rx="13" fill="none" stroke="#E3E7EC" stroke-width="1.3"/><circle cx="441.2" cy="542.0" r="28" fill="#E3F3E9"/><g transform="translate(422.2,523.0) scale(1.5833)" fill="none" stroke="#1E8449" stroke-width="1.75" stroke-linecap="round" stroke-linejoin="round"><rect x="3.4" y="3.4" width="17.2" height="17.2" rx="2.4"/><rect x="8.2" y="8.2" width="7.6" height="7.6" rx="1.6"/></g><text x="441.2" y="603.0" text-anchor="middle" font-family="Carlito, Calibri, 'Segoe UI', 'Helvetica Neue', Arial, sans-serif" font-size="19.5" font-weight="700" fill="#2B2E33">Zusammengesetzte</text><text x="441.2" y="626.0" text-anchor="middle" font-family="Carlito, Calibri, 'Segoe UI', 'Helvetica Neue', Arial, sans-serif" font-size="19.5" font-weight="700" fill="#2B2E33">Funktionen</text></g>
+<g id="station-3"><rect x="692.2" y="326" width="3" height="40" fill="#1E8449"/><g filter="url(#soft)"><rect x="573.7" y="136" width="240" height="190" rx="13" fill="#1E8449"/></g><path d="M573.7 143 h240 v170 a13 13 0 0 1 -13 13 h-214 a13 13 0 0 1 -13 -13 z" fill="#FFFFFF"/><rect x="573.7" y="136" width="240" height="190" rx="13" fill="none" stroke="#E3E7EC" stroke-width="1.3"/><circle cx="693.7" cy="192.5" r="28" fill="#E3F3E9"/><g transform="translate(674.7,173.5) scale(1.5833)" fill="none" stroke="#1E8449" stroke-width="1.75" stroke-linecap="round" stroke-linejoin="round"><path d="M10 13a5 5 0 0 0 7.54.54l3-3a5 5 0 0 0-7.07-7.07l-1.72 1.71"/><path d="M14 11a5 5 0 0 0-7.54-.54l-3 3a5 5 0 0 0 7.07 7.07l1.71-1.71"/></g><text x="693.7" y="253.5" text-anchor="middle" font-family="Carlito, Calibri, 'Segoe UI', 'Helvetica Neue', Arial, sans-serif" font-size="19.5" font-weight="700" fill="#2B2E33">Weitere</text><text x="693.7" y="276.5" text-anchor="middle" font-family="Carlito, Calibri, 'Segoe UI', 'Helvetica Neue', Arial, sans-serif" font-size="19.5" font-weight="700" fill="#2B2E33">Ableitungsregeln</text><text x="693.7" y="299.5" text-anchor="middle" font-family="Carlito, Calibri, 'Segoe UI', 'Helvetica Neue', Arial, sans-serif" font-size="13.5" fill="#787F87">Ketten- und Produktregel</text></g>
+<g id="station-4"><rect x="944.8" y="438" width="3" height="36" fill="#1E8449"/><g filter="url(#soft)"><rect x="826.3" y="474" width="240" height="190" rx="13" fill="#1E8449"/></g><path d="M826.3 481 h240 v170 a13 13 0 0 1 -13 13 h-214 a13 13 0 0 1 -13 -13 z" fill="#FFFFFF"/><rect x="826.3" y="474" width="240" height="190" rx="13" fill="none" stroke="#E3E7EC" stroke-width="1.3"/><circle cx="946.3" cy="553.5" r="28" fill="#E3F3E9"/><g transform="translate(927.3,534.5) scale(1.5833)" fill="none" stroke="#1E8449" stroke-width="1.75" stroke-linecap="round" stroke-linejoin="round"><circle cx="12" cy="12" r="3"/><circle cx="12" cy="12" r="6.6"/><path d="M18.60 12.00L21.20 12.00"/><path d="M16.67 16.67L18.51 18.51"/><path d="M12.00 18.60L12.00 21.20"/><path d="M7.33 16.67L5.49 18.51"/><path d="M5.40 12.00L2.80 12.00"/><path d="M7.33 7.33L5.49 5.49"/><path d="M12.00 5.40L12.00 2.80"/><path d="M16.67 7.33L18.51 5.49"/></g><text x="946.3" y="614.5" text-anchor="middle" font-family="Carlito, Calibri, 'Segoe UI', 'Helvetica Neue', Arial, sans-serif" font-size="19.5" font-weight="700" fill="#2B2E33">Anwendung</text></g>
+<g id="station-5"><rect x="1197.3" y="326" width="3" height="40" fill="#6E7378"/><g filter="url(#soft)"><rect x="1078.8" y="136" width="240" height="190" rx="13" fill="#6E7378"/></g><path d="M1078.8 143 h240 v170 a13 13 0 0 1 -13 13 h-214 a13 13 0 0 1 -13 -13 z" fill="#FFFFFF"/><rect x="1078.8" y="136" width="240" height="190" rx="13" fill="none" stroke="#E3E7EC" stroke-width="1.3"/><circle cx="1198.8" cy="204.0" r="28" fill="#EEEFF1"/><g transform="translate(1179.8,185.0) scale(1.5833)" fill="none" stroke="#6E7378" stroke-width="1.75" stroke-linecap="round" stroke-linejoin="round"><circle cx="12" cy="12" r="8.6"/><path d="M8.1 12.2l2.6 2.6 5.2-5.6"/></g><text x="1198.8" y="265.0" text-anchor="middle" font-family="Carlito, Calibri, 'Segoe UI', 'Helvetica Neue', Arial, sans-serif" font-size="19.5" font-weight="700" fill="#2B2E33">Kann-Liste</text><text x="1198.8" y="288.0" text-anchor="middle" font-family="Carlito, Calibri, 'Segoe UI', 'Helvetica Neue', Arial, sans-serif" font-size="13.5" fill="#787F87">Selbsteinschätzung</text></g>
+<g id="station-6"><rect x="1449.8" y="438" width="3" height="36" fill="#1E8449"/><g filter="url(#soft)"><rect x="1331.3" y="474" width="240" height="190" rx="13" fill="#14603A"/></g><path d="M1331.3 481 h240 v170 a13 13 0 0 1 -13 13 h-214 a13 13 0 0 1 -13 -13 z" fill="#1E8449"/><rect x="1331.3" y="474" width="240" height="190" rx="13" fill="none" stroke="#1E8449" stroke-width="1.3"/><circle cx="1451.3" cy="542.0" r="28" fill="#FFFFFF" opacity="0.17"/><g transform="translate(1432.3,523.0) scale(1.5833)" fill="none" stroke="#FFFFFF" stroke-width="1.75" stroke-linecap="round" stroke-linejoin="round"><path d="M6.2 3.2h8.4l4.2 4.2v13.4a1.6 1.6 0 0 1-1.6 1.6H6.2a1.6 1.6 0 0 1-1.6-1.6V4.8a1.6 1.6 0 0 1 1.6-1.6z"/><path d="M14.6 3.2v4.2h4.2"/><path d="M7.8 12.6H14"/><path d="M7.8 15.8H15.6"/><path d="M7.8 19H12"/></g><text x="1451.3" y="603.0" text-anchor="middle" font-family="Carlito, Calibri, 'Segoe UI', 'Helvetica Neue', Arial, sans-serif" font-size="19.5" font-weight="700" fill="#FFFFFF">Klausur</text><text x="1451.3" y="626.0" text-anchor="middle" font-family="Carlito, Calibri, 'Segoe UI', 'Helvetica Neue', Arial, sans-serif" font-size="13.5" fill="#C9E9D6">Leistungsnachweis</text></g>
 <circle cx="188.7" cy="402" r="36" fill="#FFFFFF" stroke="#1E8449" stroke-width="4.5"/>
 <text x="188.7" y="413" text-anchor="middle" font-family="Carlito, Calibri, 'Segoe UI', 'Helvetica Neue', Arial, sans-serif" font-size="30" font-weight="700" fill="#1E8449">1</text>
-<circle cx="399.1" cy="402" r="36" fill="#FFFFFF" stroke="#1E8449" stroke-width="4.5"/>
-<text x="399.1" y="413" text-anchor="middle" font-family="Carlito, Calibri, 'Segoe UI', 'Helvetica Neue', Arial, sans-serif" font-size="30" font-weight="700" fill="#1E8449">2</text>
-<circle cx="609.6" cy="402" r="36" fill="#FFFFFF" stroke="#1E8449" stroke-width="4.5"/>
-<text x="609.6" y="413" text-anchor="middle" font-family="Carlito, Calibri, 'Segoe UI', 'Helvetica Neue', Arial, sans-serif" font-size="30" font-weight="700" fill="#1E8449">3</text>
-<circle cx="820.0" cy="402" r="36" fill="#FFFFFF" stroke="#1E8449" stroke-width="4.5"/>
-<text x="820.0" y="413" text-anchor="middle" font-family="Carlito, Calibri, 'Segoe UI', 'Helvetica Neue', Arial, sans-serif" font-size="30" font-weight="700" fill="#1E8449">4</text>
-<circle cx="1030.4" cy="402" r="36" fill="#FFFFFF" stroke="#1E8449" stroke-width="4.5"/>
-<text x="1030.4" y="413" text-anchor="middle" font-family="Carlito, Calibri, 'Segoe UI', 'Helvetica Neue', Arial, sans-serif" font-size="30" font-weight="700" fill="#1E8449">5</text>
-<circle cx="1240.9" cy="402" r="36" fill="#FFFFFF" stroke="#6E7378" stroke-width="4.5"/>
-<text x="1240.9" y="413" text-anchor="middle" font-family="Carlito, Calibri, 'Segoe UI', 'Helvetica Neue', Arial, sans-serif" font-size="30" font-weight="700" fill="#6E7378">6</text>
+<circle cx="441.2" cy="402" r="36" fill="#FFFFFF" stroke="#1E8449" stroke-width="4.5"/>
+<text x="441.2" y="413" text-anchor="middle" font-family="Carlito, Calibri, 'Segoe UI', 'Helvetica Neue', Arial, sans-serif" font-size="30" font-weight="700" fill="#1E8449">2</text>
+<circle cx="693.7" cy="402" r="36" fill="#FFFFFF" stroke="#1E8449" stroke-width="4.5"/>
+<text x="693.7" y="413" text-anchor="middle" font-family="Carlito, Calibri, 'Segoe UI', 'Helvetica Neue', Arial, sans-serif" font-size="30" font-weight="700" fill="#1E8449">3</text>
+<circle cx="946.3" cy="402" r="36" fill="#FFFFFF" stroke="#1E8449" stroke-width="4.5"/>
+<text x="946.3" y="413" text-anchor="middle" font-family="Carlito, Calibri, 'Segoe UI', 'Helvetica Neue', Arial, sans-serif" font-size="30" font-weight="700" fill="#1E8449">4</text>
+<circle cx="1198.8" cy="402" r="36" fill="#FFFFFF" stroke="#6E7378" stroke-width="4.5"/>
+<text x="1198.8" y="413" text-anchor="middle" font-family="Carlito, Calibri, 'Segoe UI', 'Helvetica Neue', Arial, sans-serif" font-size="30" font-weight="700" fill="#6E7378">5</text>
 <circle cx="1451.3" cy="402" r="36" fill="#1E8449" stroke="#1E8449" stroke-width="4.5"/>
-<text x="1451.3" y="413" text-anchor="middle" font-family="Carlito, Calibri, 'Segoe UI', 'Helvetica Neue', Arial, sans-serif" font-size="30" font-weight="700" fill="#FFFFFF">7</text>
+<text x="1451.3" y="413" text-anchor="middle" font-family="Carlito, Calibri, 'Segoe UI', 'Helvetica Neue', Arial, sans-serif" font-size="30" font-weight="700" fill="#FFFFFF">6</text>
 </svg>
 </div></div>
 </body></html>
